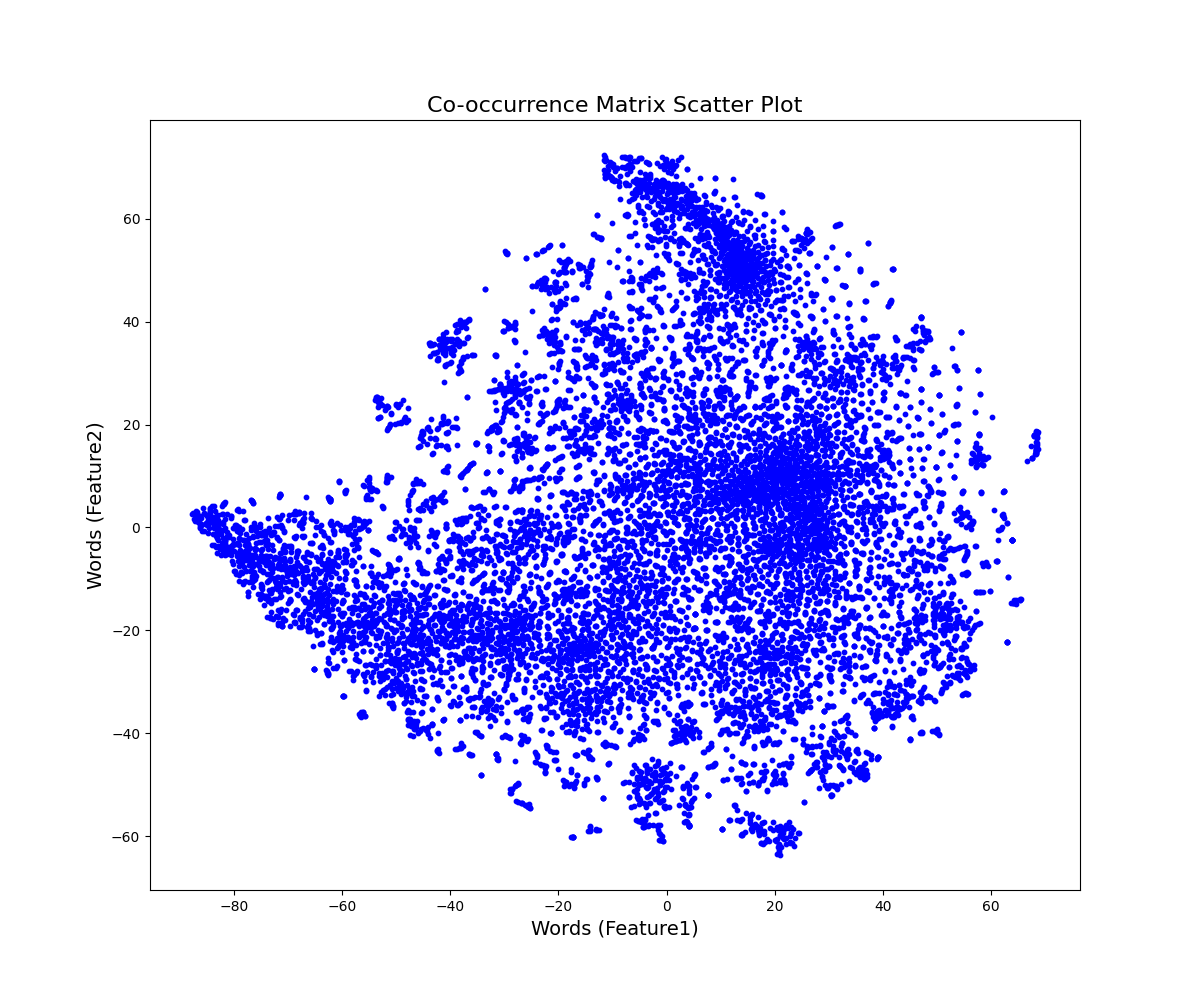
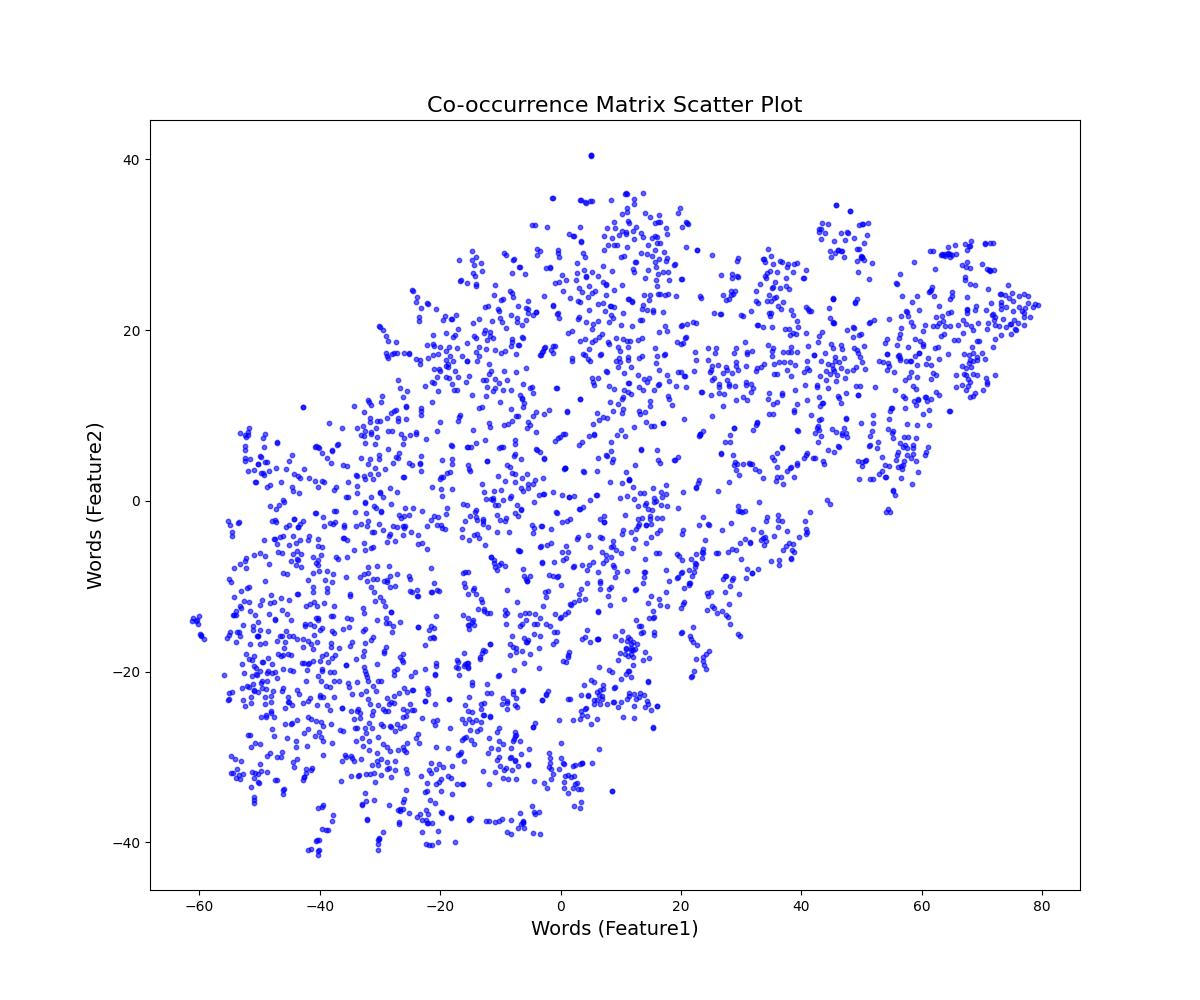
add idif

diff --git a/k-m.py b/k-m.py
@@ -15,6 +15,8 @@ from sklearn.decomposition import NMF
 from nltk.corpus import wordnet
 from nltk.stem import WordNetLemmatizer
 from nltk import pos_tag
+from sklearn.feature_extraction.text import TfidfVectorizer
+
 
 import seaborn as sns
 from sklearn.decomposition import TruncatedSVD
@@ -24,8 +26,11 @@ nltk.download('stopwords')
 nltk.download('averaged_perceptron_tagger_eng')
 
 
-num_words = {'one', 'two', 'three', 'four', 'five', 'six', 'seven', 'eight', 'nine', 'ten', 'million', 'billion'}
-
+num_words = {
+    'one', 'two', 'three', 'four', 'five', 'six', 'seven', 'eight', 'nine', 'ten', 'eleven', 'twelve',  # Cardinal numbers
+    'first', 'second', 'third', 'fourth', 'fifth', 'sixth', 'seventh', 'eighth', 'ninth', 'tenth',  # Ordinal numbers
+    'meter', 'kilometer', 'liter', 'gram', 'kilogram', 'second', 'minute', 'hour', 'day', 'year'  # Units of measurement
+}
 # 常见单位
 units = {'million', 'billion', 'kg', 'g', 'lb', 'm', 'cm', 'km', 'hour', 'minute', 'second', 'percent'}
 
@@ -120,11 +125,53 @@ for token in lemmatized_words:
 print("cleaned_tokens "+str(len(cleaned_tokens)))
 word_freq = Counter(cleaned_tokens)
 min_freq = 30  # 最小词频
-max_freq = 20000  # 最大词频
+max_freq = 10000  # 最大词频
 
 important_words = [word for word in cleaned_tokens if min_freq < word_freq[word]]
 print("important word "+str(len(important_words)))
+print("important word set "+str(len(set(important_words))))
 print("print(important_words[:10]) "+str(important_words[:10]))
+
+important_words_text = " ".join(important_words)
+
+# 创建一个 TF-IDF 向量化器
+tfidf_vectorizer = TfidfVectorizer()
+
+# 将 important_words_text 转换为一个文档列表（只有一个文档）
+tfidf_matrix = tfidf_vectorizer.fit_transform([important_words_text])
+
+# 获取词汇表中的所有特征名称（单词）
+feature_names = tfidf_vectorizer.get_feature_names_out()
+
+# 将 TF-IDF 矩阵转换为稠密格式，方便查看每个词的值
+dense_tfidf = tfidf_matrix.todense()
+
+# 获取第一个（也是唯一一个）文档的 TF-IDF 值
+tfidf_values = dense_tfidf.tolist()[0]
+
+# 创建一个词汇与其对应 TF-IDF 值的字典
+word_tfidf = dict(zip(feature_names, tfidf_values))
+
+# 输出每个重要单词的 TF-IDF 值
+#print("Important words and their TF-IDF values:")
+#for word, tfidf_val in word_tfidf.items():
+ #   print(f"{word}: {tfidf_val}")
+
+# 设置一个阈值
+threshold = 0.0015  # 可以根据需要调整这个值，较高的值会留下重要的单词
+
+# 筛选出 TF-IDF 值高于阈值的单词
+important_tfidf_words = [word for word, tfidf_val in word_tfidf.items() if tfidf_val > threshold]
+
+# 输出筛选后的重要单词
+print(f"重要单词数: {len(important_tfidf_words)}")
+print(f"重要单词: {important_tfidf_words[:10]}")  # 查看前10个重要单词
+
+# 输出筛选出的重要单词
+
+important_words = [word for word in important_words if word in important_tfidf_words]
+print("Important words after TF-IDF filtering:", str(len(important_words)))
+
 
 
 
@@ -132,7 +179,7 @@ print("print(important_words[:10]) "+str(important_words[:10]))
 
 important_words_list = list(important_words)
 co_occurrences = defaultdict(Counter)
-window_size = max(5, min(20, len(important_words) // 2))
+window_size = max(5, min(25, len(important_words) // 2))
 for i, word in enumerate(important_words):
     for j in range(max(0, i - window_size), min(len(important_words), i + window_size + 1)):
         if i != j and word != important_words[j]:
@@ -173,7 +220,7 @@ mat_array = mat.values
 #print("nmf_result.shape",str(mat_array.shape))
 #tsne = TSNE(n_components=2, random_state=42)
 #mat_array_tsne = tsne.fit_transform(mat_array)
-svd = TruncatedSVD(n_components=50, random_state=42)
+svd = TruncatedSVD(n_components=100, random_state=42)
 mat_array_svd = svd.fit_transform(mat_array)
 print("mat_array_svd.shape",str(mat_array_svd.shape))
 tsne = TSNE(n_components=2, random_state=42)
@@ -211,22 +258,29 @@ plt.show()
 
 
 # Format results as a DataFrame
-k_values = range(2, 30)  # 从 2 到 10 尝试不同的簇数
+k_values = range(2, 25)  # 从 2 到 10 尝试不同的簇数
 #k_values = [ 50, 100, 200, 500]
 
 
 inertias = []
+silhouette_scores = []
 
 
 # 计算每个 K 值的惯性
 for k in k_values:
     km = KMeans(n_clusters=k, random_state=42)
     km.fit(mat_array_svd)  # 使用共现矩阵
+    labels = km.labels_
     inertias.append(km.inertia_)
+    silhouette_score_ = silhouette_score(mat_array_svd, labels)
+    silhouette_scores.append(silhouette_score_)
+
 
 inertia_diff = np.diff(inertias)  # 求出相邻两个 Inertia 之间的差异
 inertia_diff2 = np.diff(inertia_diff)  # 求出差异的差异（加速/减速）
 elbow_point = np.argmax(inertia_diff2) + 1
+
+
 
 # 绘制肘部法则图
 plt.plot(k_values, inertias, marker='o')
@@ -238,6 +292,22 @@ plt.savefig('elbow_method_plot4.png')
 plt.show()
 print(f"the best k from Elbow Method is: {k_values[elbow_point]}")
 
+plt.figure(figsize=(12, 6))
+plt.subplot(1, 2, 1)
+plt.plot(k_values, inertias, marker='o')
+plt.title("Elbow Method")
+plt.xlabel("Number of clusters")
+plt.ylabel("Inertia")
+
+plt.subplot(1, 2, 2)
+plt.plot(k_values, silhouette_scores, marker='o')
+plt.title("Silhouette Score")
+plt.xlabel("Number of clusters")
+plt.ylabel("Silhouette Score")
+
+plt.tight_layout()
+plt.show()
+
 
 #print("print(mat_array.shape) "+str(mat_array.shape))
 silhouette_scores = []
@@ -248,28 +318,29 @@ for k in k_values:
     km.fit(mat_array_svd)  # 用 co-occurrence matrix 进行聚类
     labels = km.labels_
 
-    plt.figure(figsize=(8, 6))
+    #plt.figure(figsize=(8, 6))
 
     # 为每个簇绘制不同颜色的点
-    for i in range(k):
-        plt.scatter(mat_array_tsne[labels == i, 0], mat_array_tsne[labels == i, 1], label=f'Cluster {i + 1}', s=50)
+    #for i in range(k):
+        #plt.scatter(mat_array_tsne[labels == i, 0], mat_array_tsne[labels == i, 1], label=f'Cluster {i + 1}', s=50)
 
     # 绘制簇的中心
-    centers = km.cluster_centers_
-    print("print(centers.shape)"+str(centers.shape))
-    plt.scatter(centers[:, 0], centers[:, 1], c='black', s=200, marker='*', label='Centroids')
+    #centers = km.cluster_centers_
+    #print("print(centers.shape)"+str(centers.shape))
+    #plt.scatter(centers[:, 0], centers[:, 1], c='black', s=200, marker='*', label='Centroids')
 
     # 添加标题和标签
-    plt.title(f'K-means Clustering (k={k})', fontsize=14)
-    plt.xlabel('Feature 1', fontsize=12)
-    plt.ylabel('Feature 2', fontsize=12)
-    plt.legend()
+    #plt.title(f'K-means Clustering (k={k})', fontsize=14)
+    #plt.xlabel('Feature 1', fontsize=12)
+    #plt.ylabel('Feature 2', fontsize=12)
+    #plt.legend()
 
     # 显示图形
 
-    plt.savefig(f'k_means_clustering_{k}.png')  # 保存为PNG格式，文件名包括k的值
-    plt.show()
-    plt.close()  # 关闭当前图形，避免显示多张图
+    #plt.savefig(f'k_means_clustering_{k}.png')  # 保存为PNG格式，文件名包括k的值
+    #plt.show()
+    #plt.close()  # 关闭当前图形，避免显示多张图
+
 
     silhouette_avg = silhouette_score(mat_array_svd, labels)
     silhouette_scores.append(silhouette_avg)
